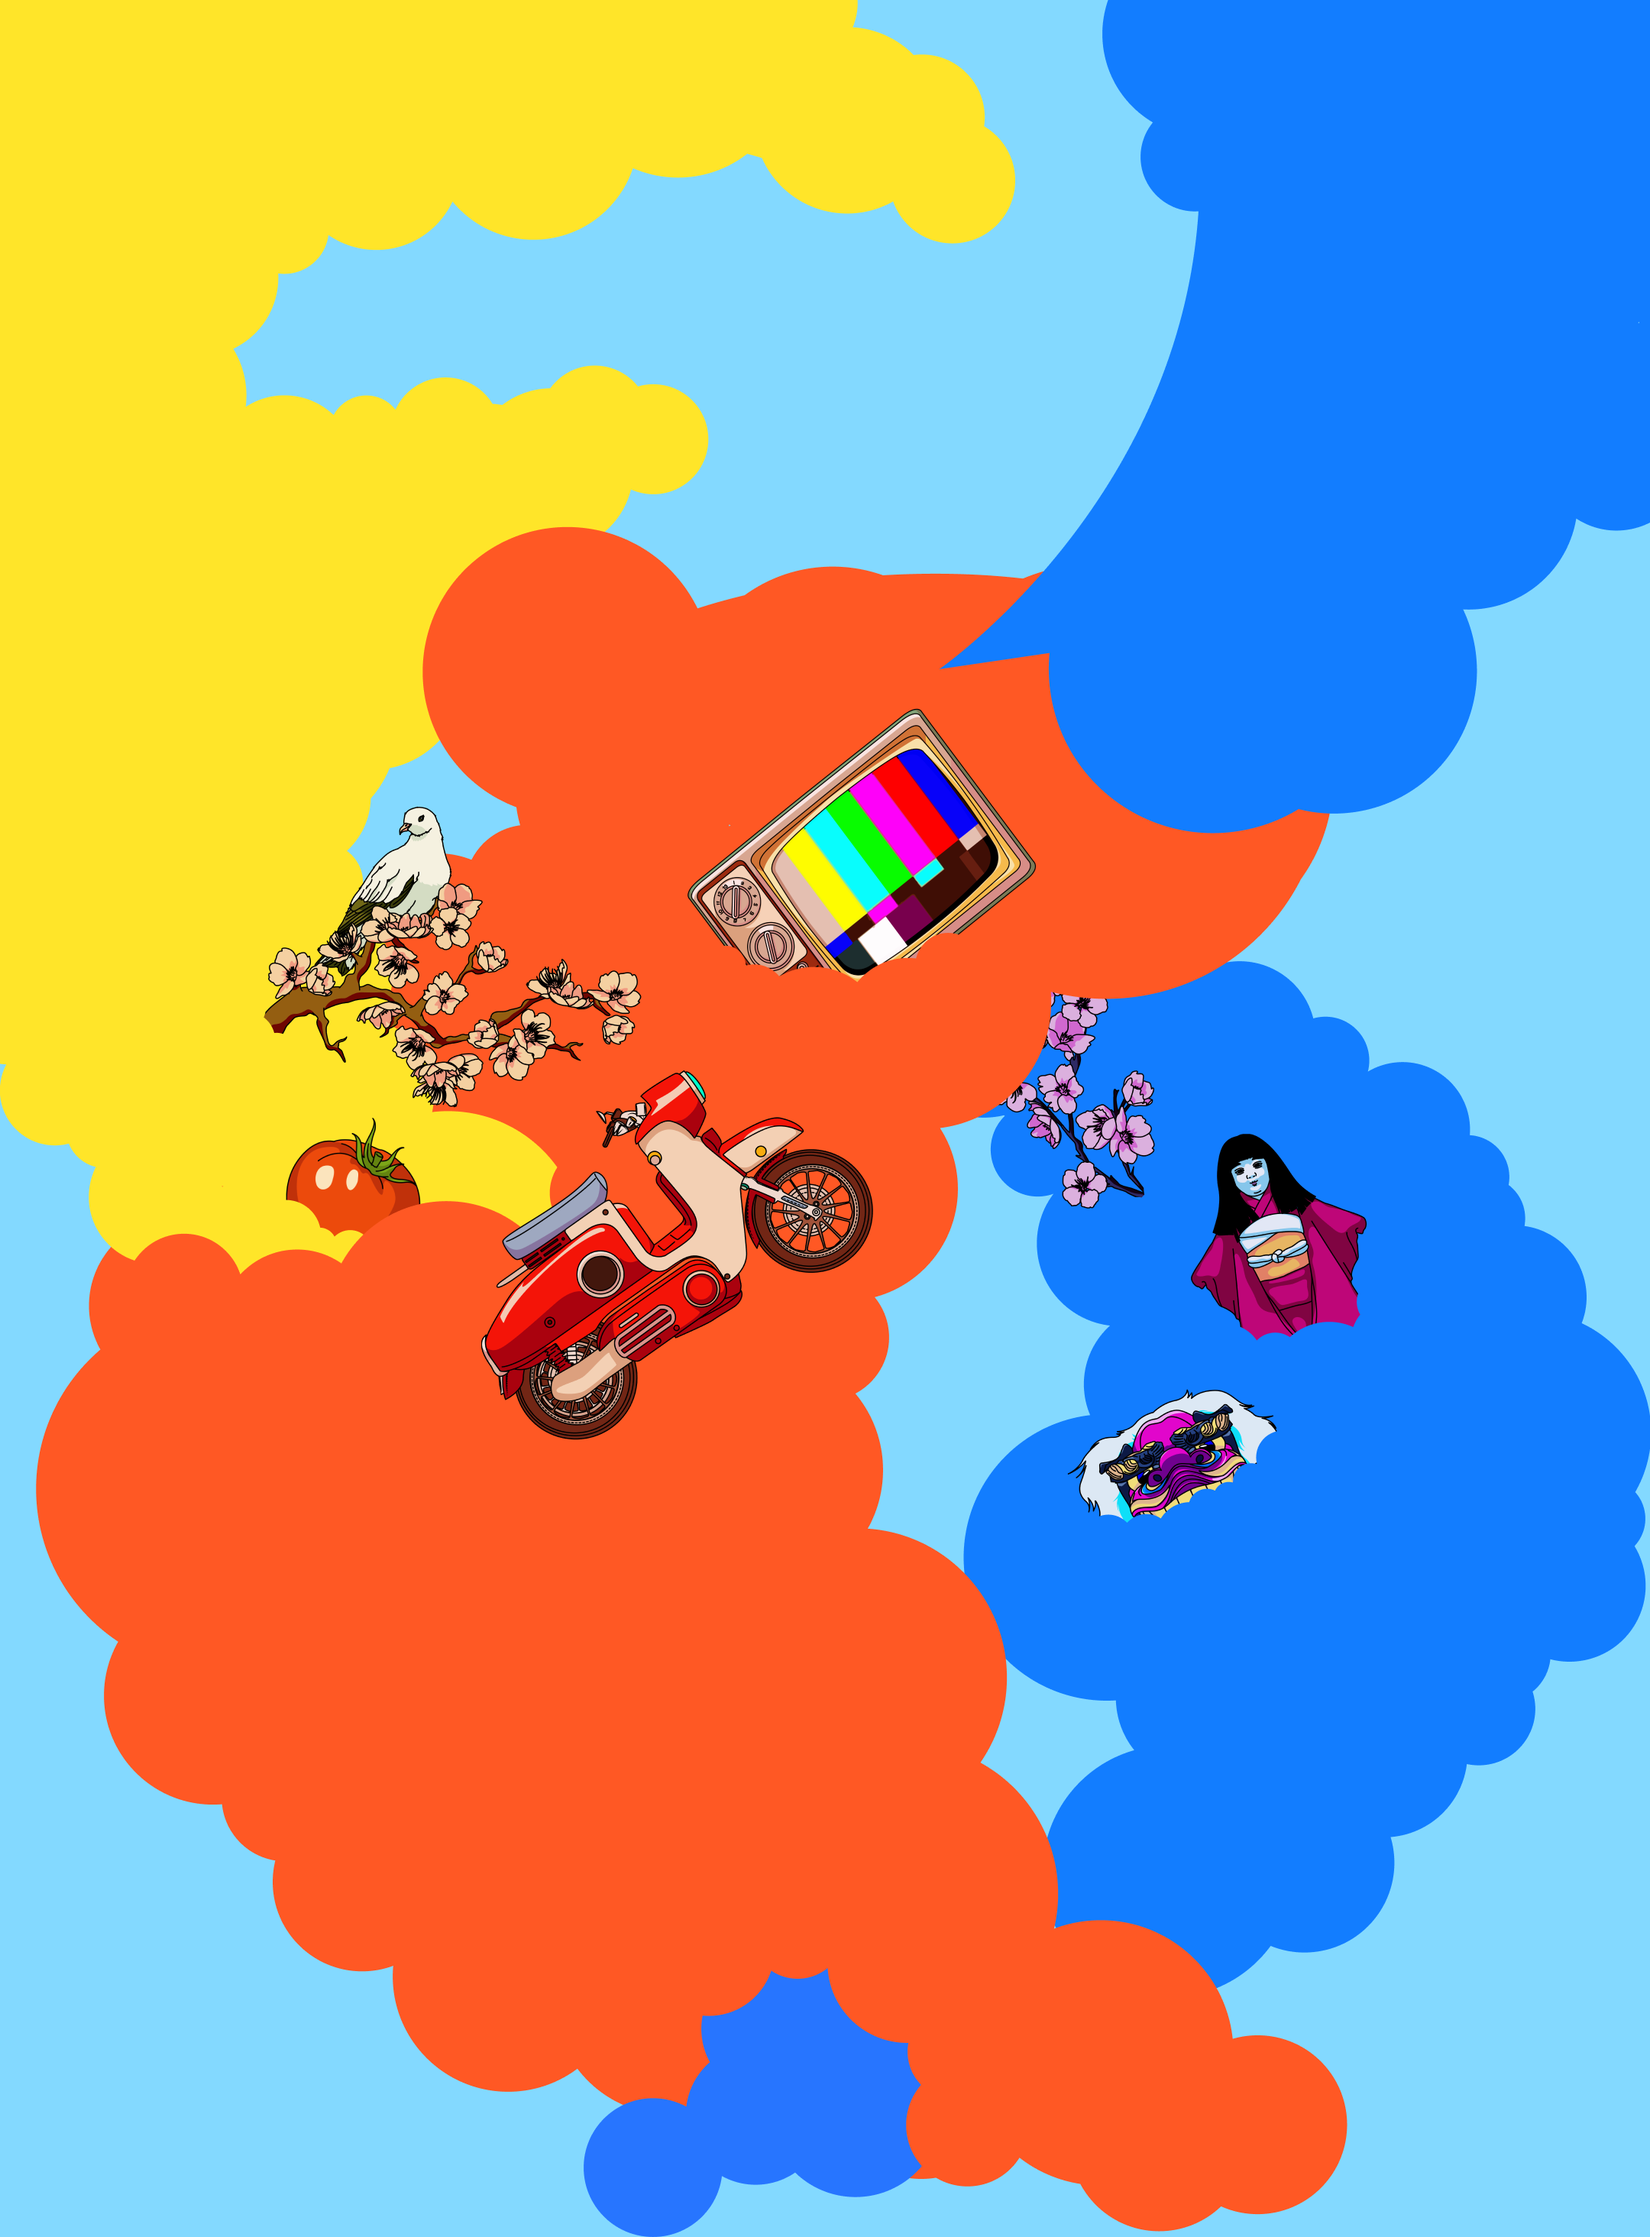
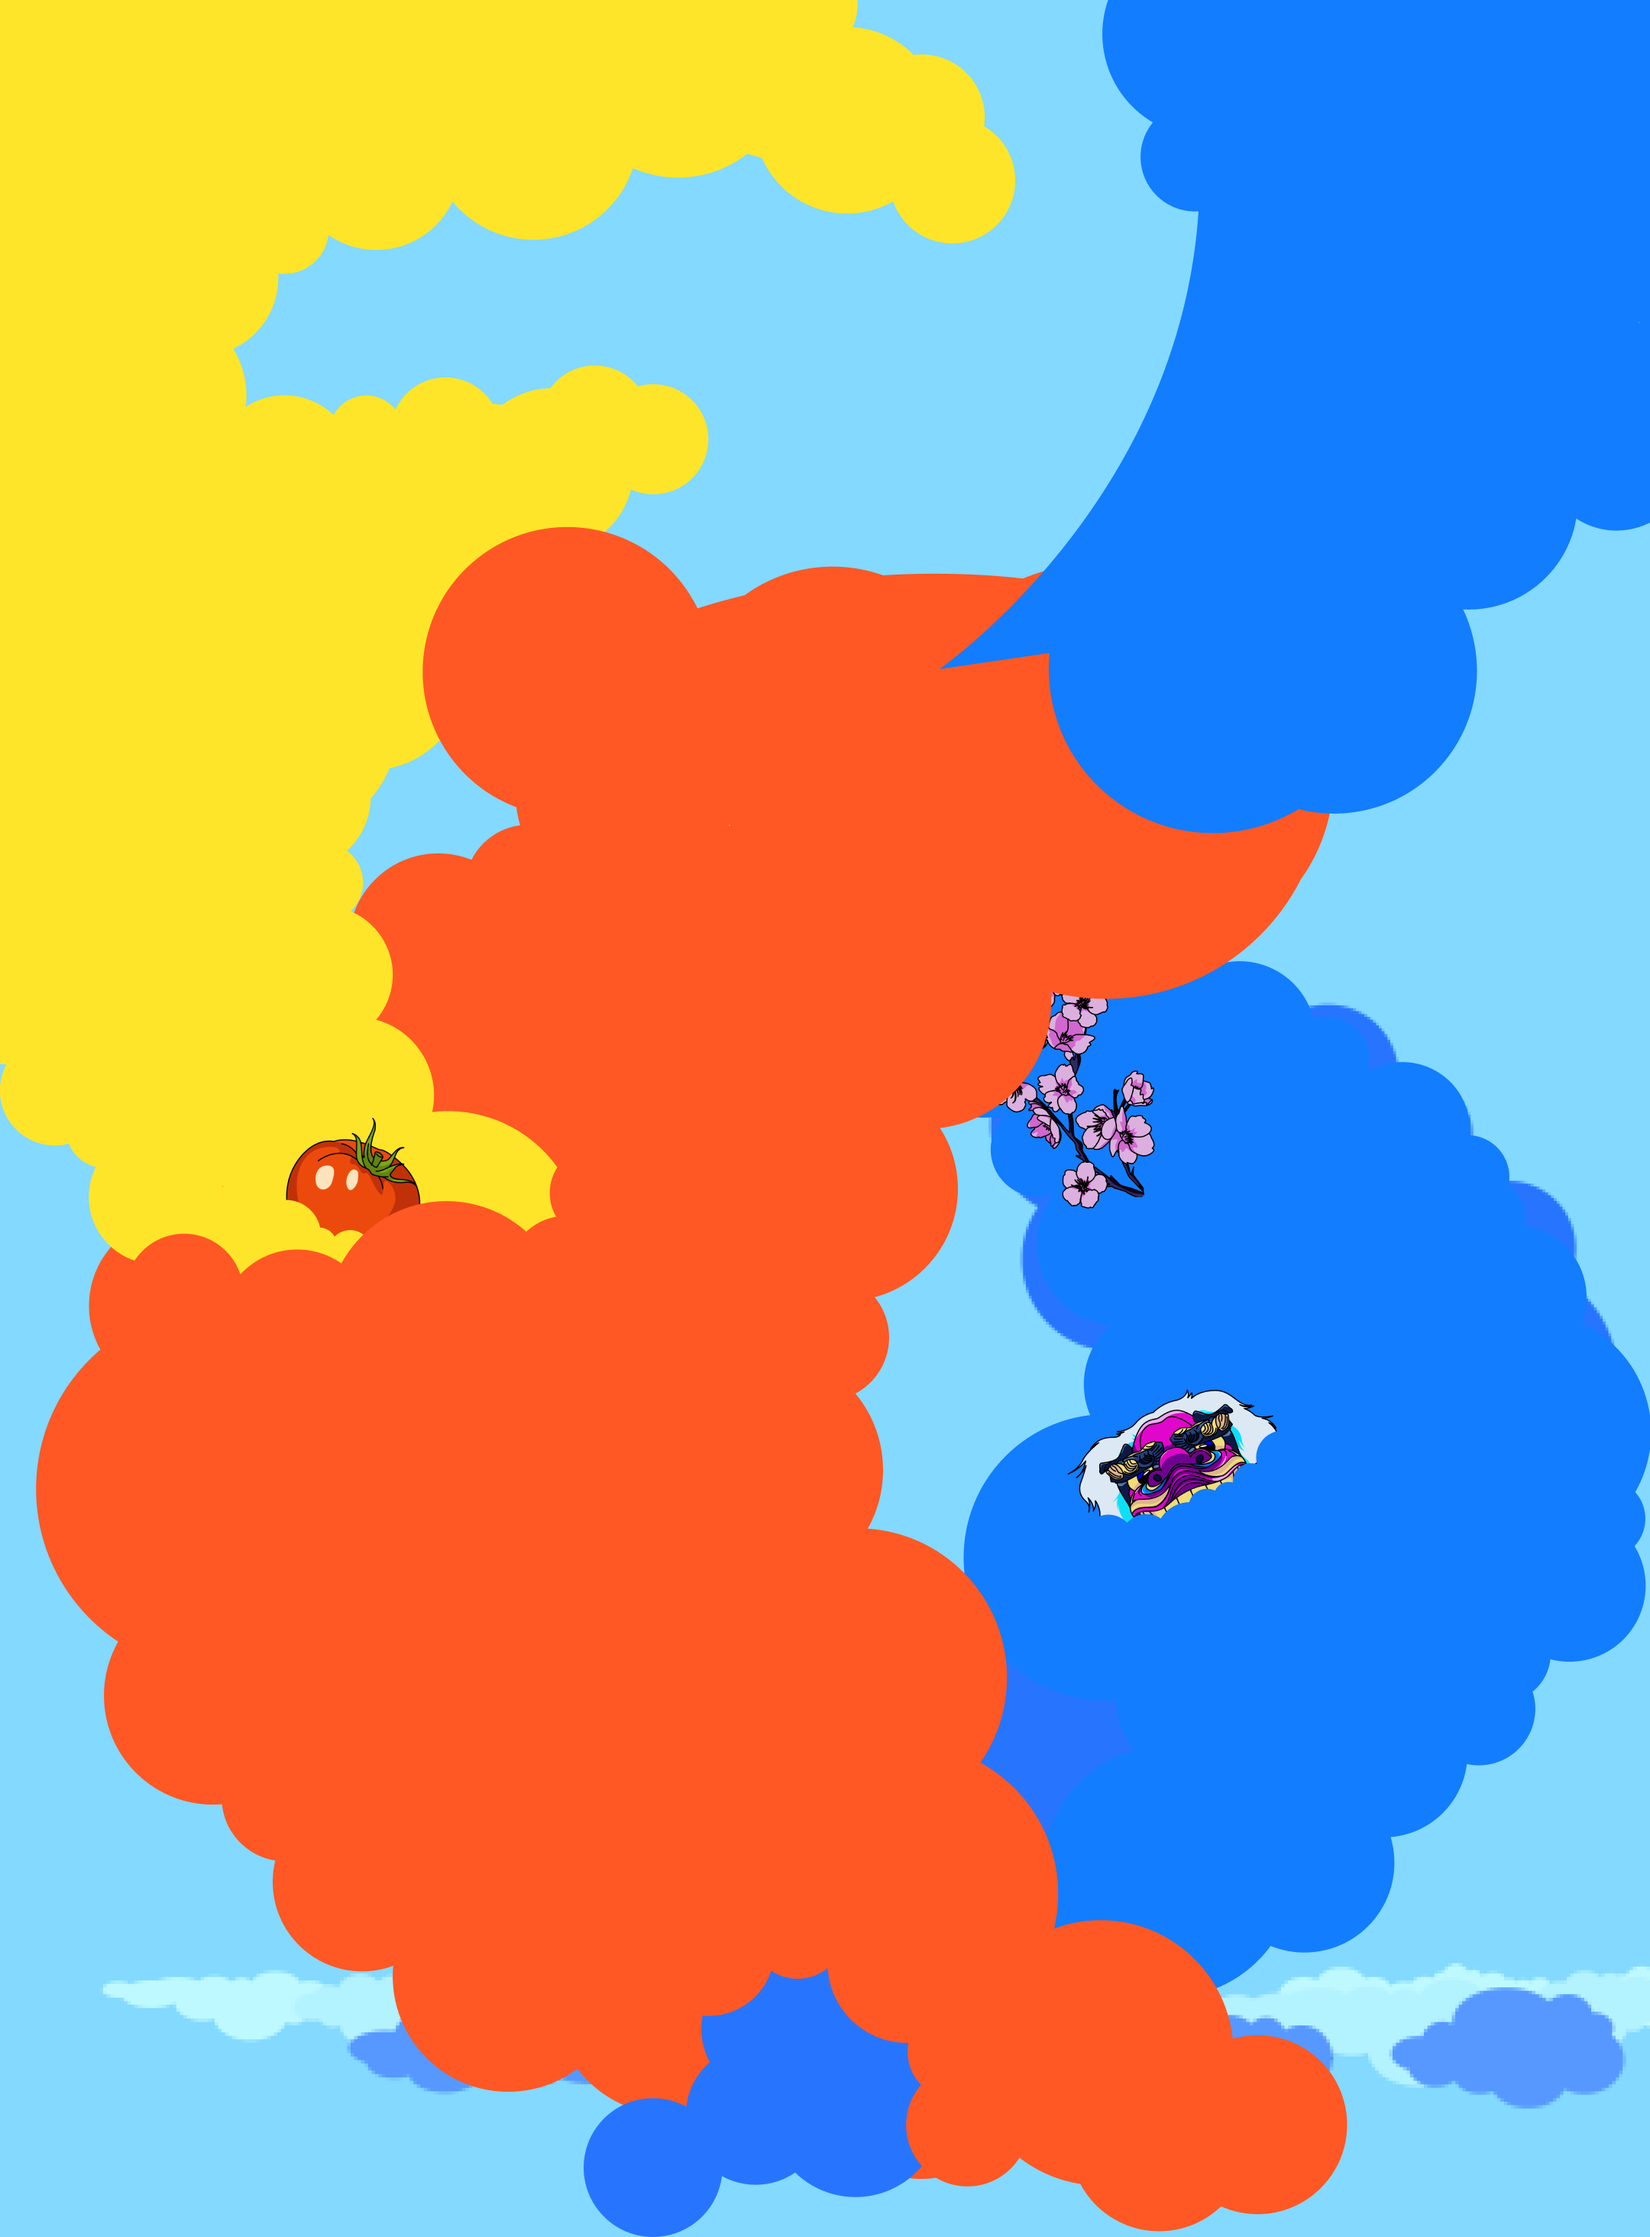
チャットルーム装飾開始

diff --git a/css/style.css b/css/style.css
@@ -415,7 +415,7 @@ about
 
 #about .flower {
 	position: absolute;
-	top: -30px;
+	top: 30%;
 	right: 0;
 	content: "";
 	display: block;
@@ -693,6 +693,17 @@ contents
 	transform: translateY(100px);
 	transition: all .5s ease-in-out;
 	transition-delay: .3s;
+}
+
+#contents .chatroom .chatroom-bg {
+	position: absolute;
+}
+
+#contents .chatroom .chatroom-bg.chatroom-bg--tv {
+	top: -10.83vw;
+	left: 41.6vw;
+	width: 20.83vw;
+	transform: translateX(-50%) translateY(-100%);
 }
 
 #contents .chatroom .loop-wrap.loop-wrap--right {

diff --git a/js/main.js b/js/main.js
@@ -140,6 +140,8 @@ gsap.to(
   }
 )
 
+var rellax = new Rellax('.rellax');
+
 // フラワースクロール量操作
 // jQuery( window ).bind( 'scroll', function() {
 // 	scrolled = jQuery( window ).scrollTop();

diff --git a/index.php b/index.php
@@ -80,7 +80,7 @@
 					<li>MEMBER ONRY</li>
 				</ul>
 			</div>
-			<span class="flower"></span>
+			<span class="flower rellax" data-rellax-speed="3"></span>
 			<div class="cloud--sp"><img src="<?php echo get_template_directory_uri(); ?>/images/about-bg--cloud-sp.png" alt=""></div>
 			<h2 class="heading heading--orange inview"><span>このサイトについて</span>このサイトについて</h2>
 			<ul class="about-list inview">
@@ -120,6 +120,10 @@
 				<div class="btn btn--black"><a href="#"><span>COMING SOON</span><img src="<?php echo get_template_directory_uri(); ?>/images/arrow.png" alt=""></a></div>
 			</div>
 			<div class="chatroom chatroom--pc inview">
+				<img class="chatroom-bg chatroom-bg--tv" src="<?php echo get_template_directory_uri(); ?>/images/tv.png" alt="">
+				<img class="chatroom-bg chatroom-bg--sakura" src="<?php echo get_template_directory_uri(); ?>/images/sakura.png" alt="">
+				<img class="chatroom-bg chatroom-bg--bike" src="<?php echo get_template_directory_uri(); ?>/images/bike.png" alt="">
+				<img class="chatroom-bg chatroom-bg--doll" src="<?php echo get_template_directory_uri(); ?>/images/doll.png" alt="">
 				<div class="loop-wrap loop-wrap--right">
 					<ul>
 						<li>HOT CHAT</li>

diff --git a/footer.php b/footer.php
@@ -40,6 +40,7 @@
 	<script type="text/javascript" src="https://cdnjs.cloudflare.com/ajax/libs/jquery.inview/1.0.0/jquery.inview.min.js"></script>
 	<script src="https://cdn.jsdelivr.net/npm/gsap@3.13.0/dist/gsap.min.js"></script>
 	<script src="https://cdn.jsdelivr.net/npm/gsap@3.13.0/dist/ScrollTrigger.min.js"></script>
+	<script src="https://cdnjs.cloudflare.com/ajax/libs/rellax/1.12.1/rellax.min.js"></script>
 	<script src="<?php echo get_template_directory_uri() ?>/js/main.js"></script>
 	<?php wp_footer(); ?>
 </body>
